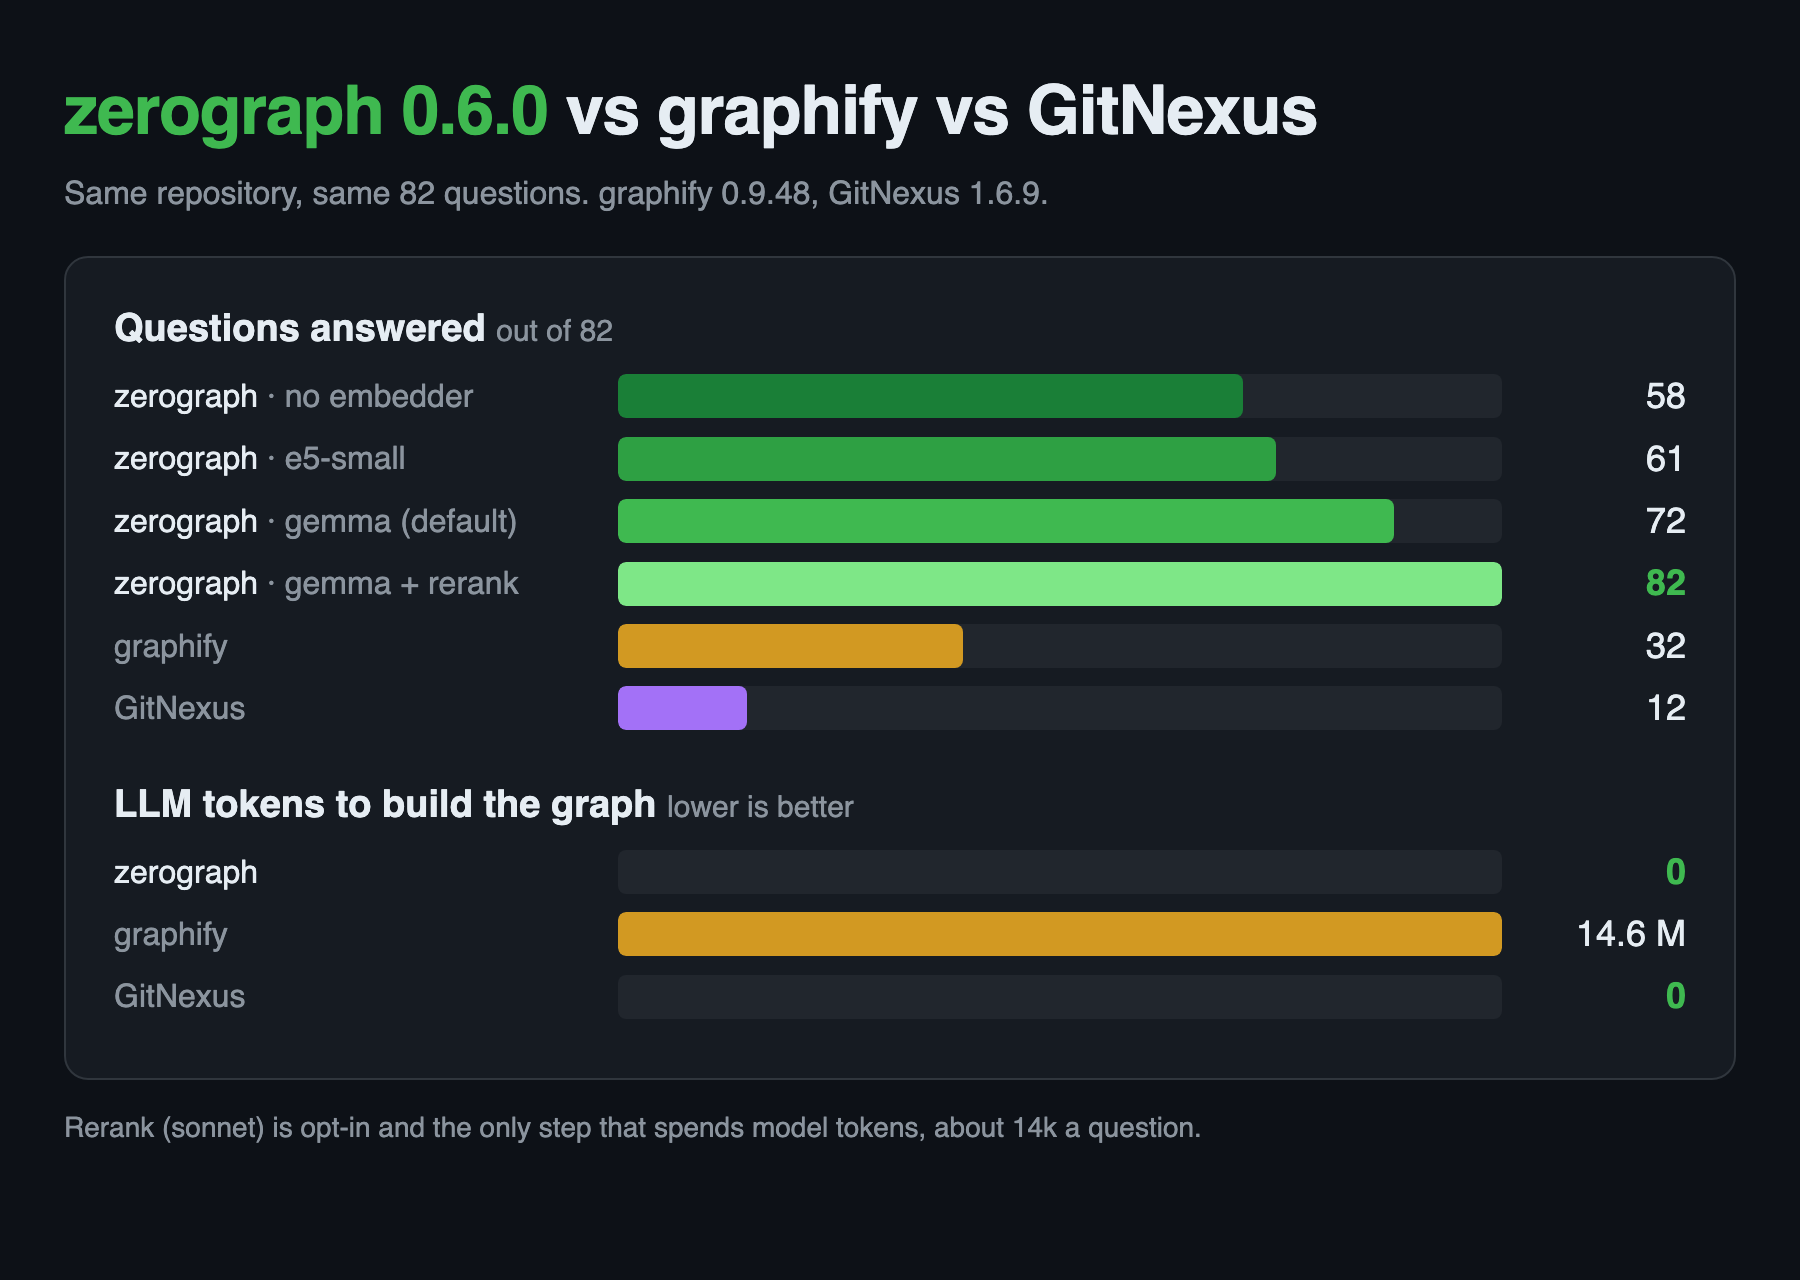
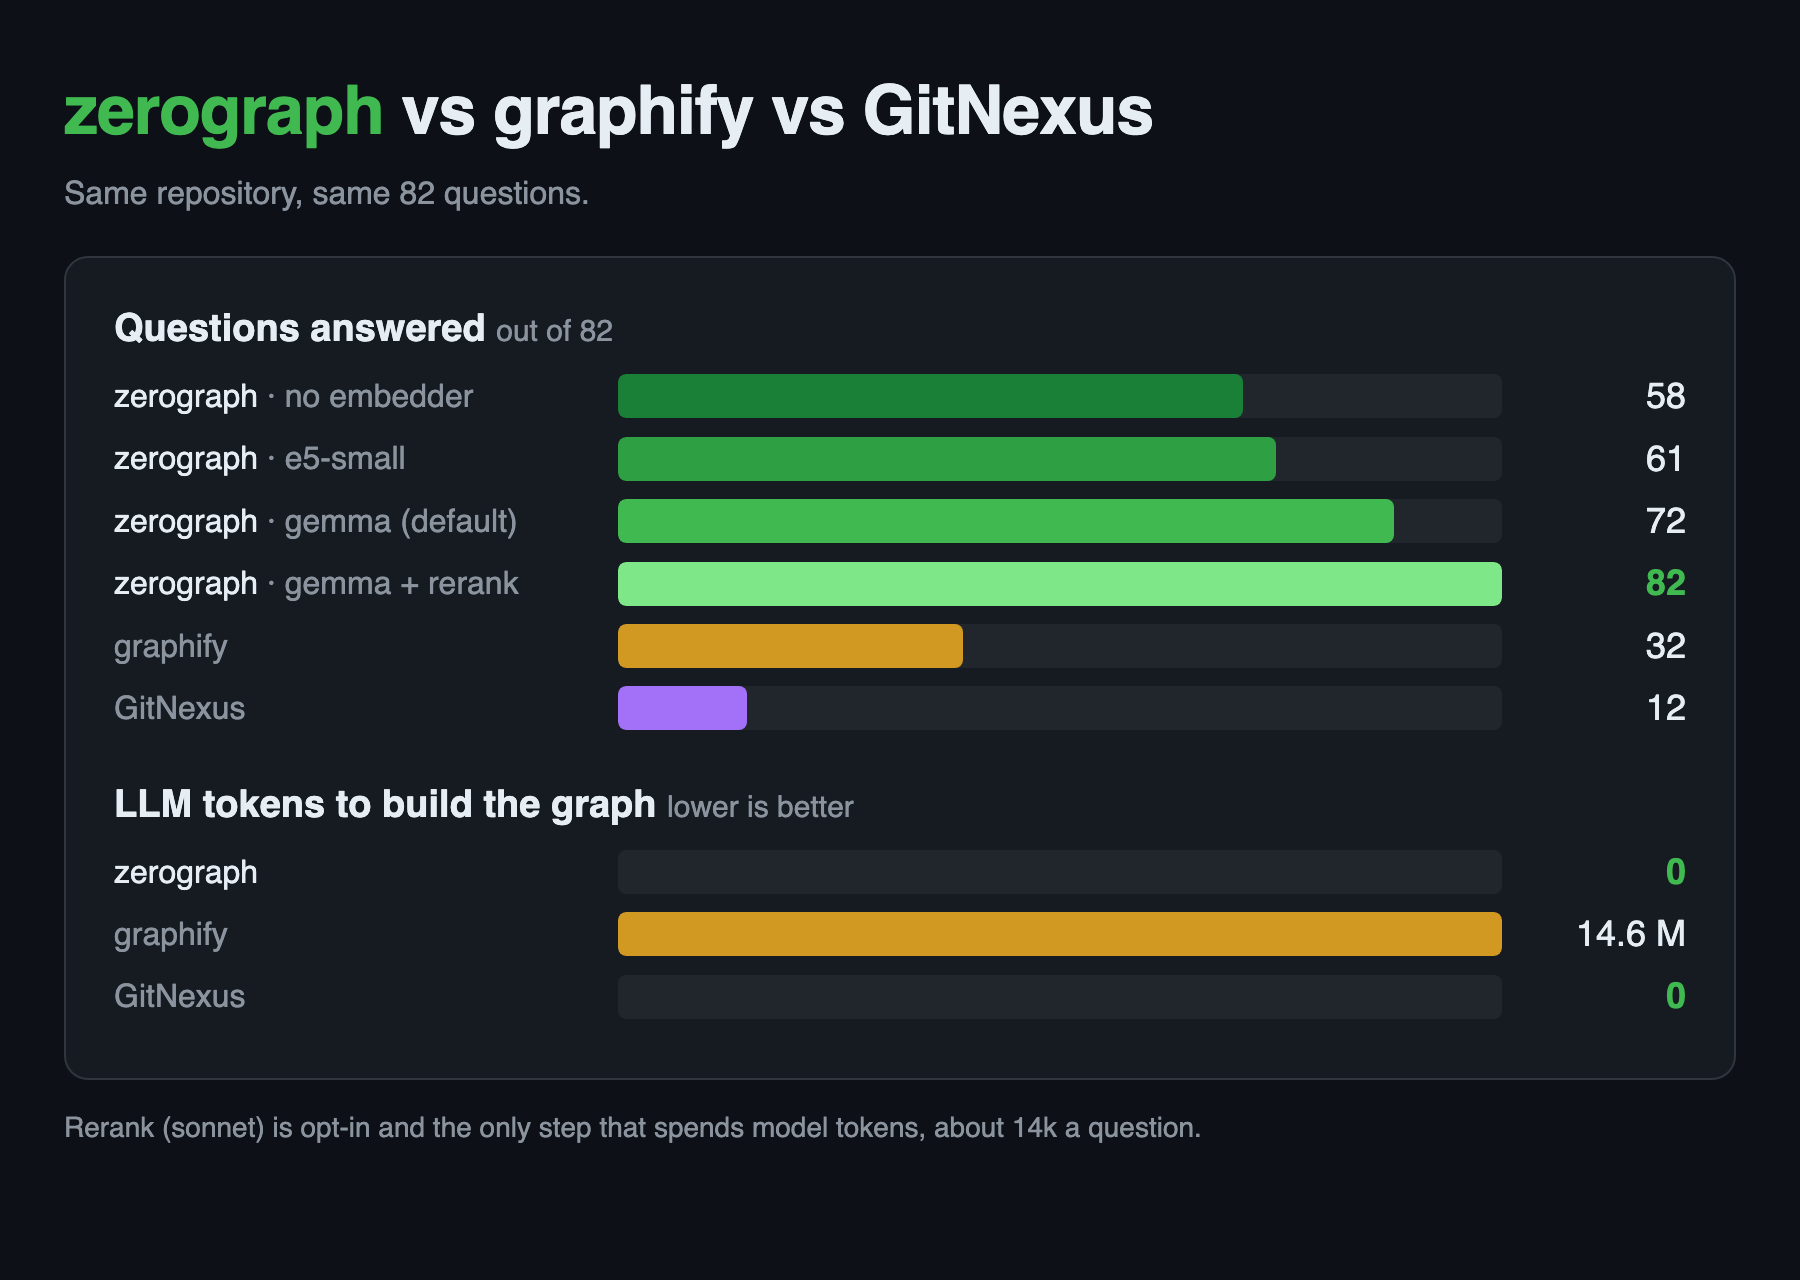
docs(readme): drop tool versions from the comparison image

Changed region(s): [[0.2178, 0.0625, 0.7467, 0.1562]]

diff --git a/docs/assets/comparison.html b/docs/assets/comparison.html
@@ -22,8 +22,8 @@ h1 b{color:var(--z2)}
 .foot{color:var(--mut);font-size:14px;margin-top:14px}
 </style></head><body>
 
-<h1><b>zerograph 0.6.0</b> vs graphify vs GitNexus</h1>
-<div class="sub">Same repository, same 82 questions. graphify 0.9.48, GitNexus 1.6.9.</div>
+<h1><b>zerograph</b> vs graphify vs GitNexus</h1>
+<div class="sub">Same repository, same 82 questions.</div>
 
 <div class="card">
 <div class="metric"><div class="lbl">Questions answered <span>out of 82</span></div>
